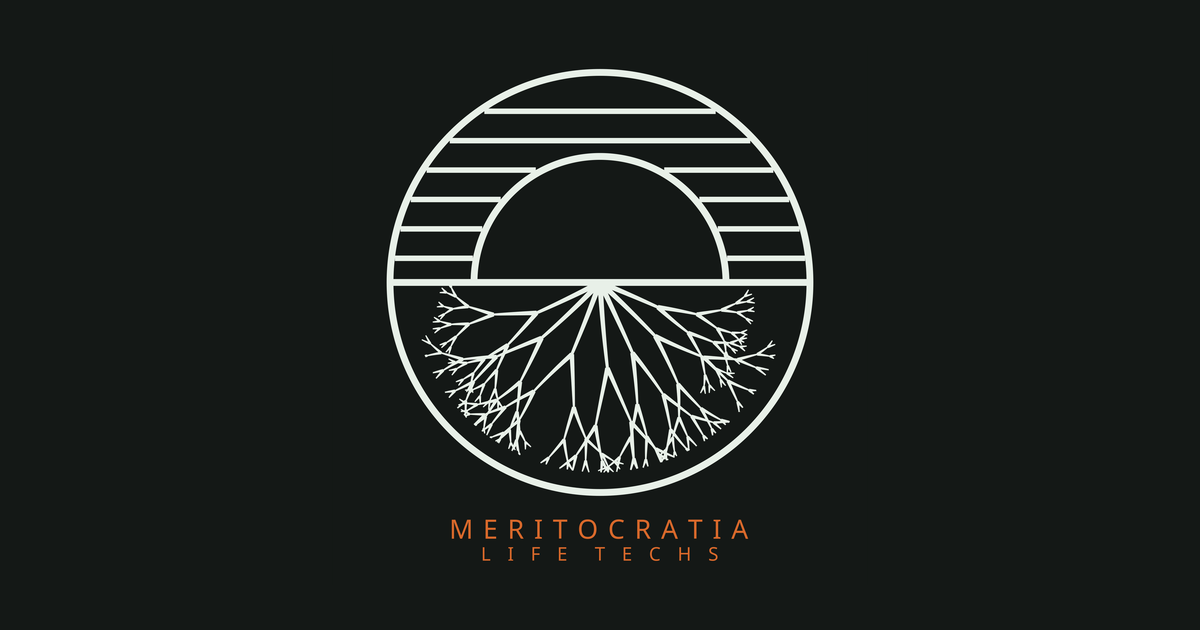
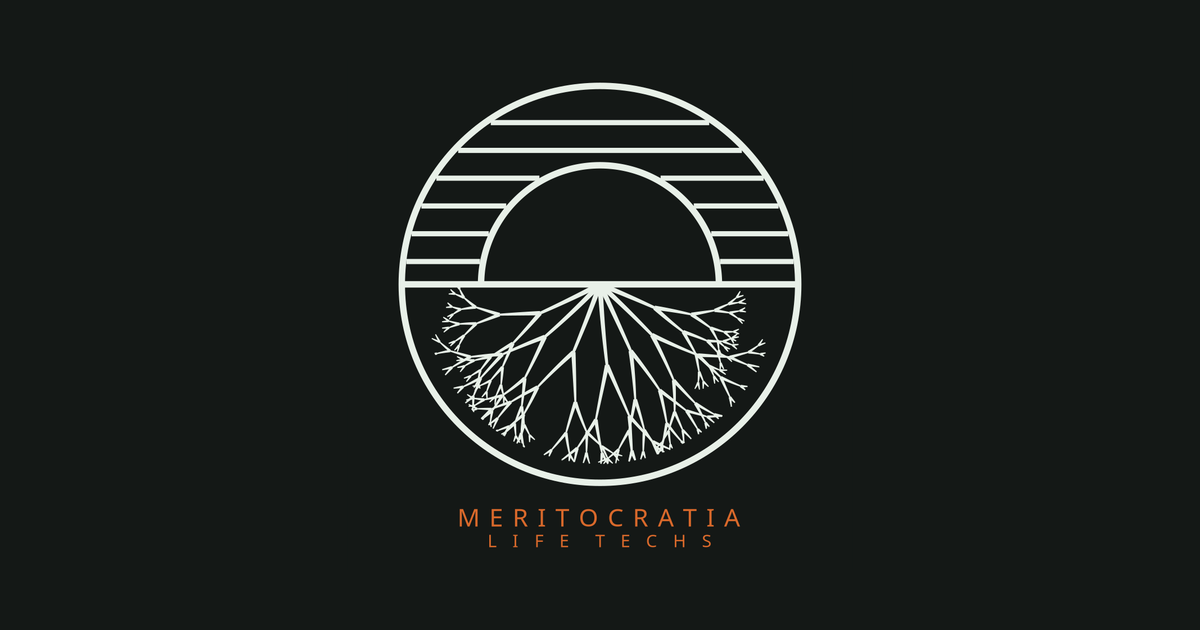
Add files via upload

Changed region(s): [[0.3083, 0.0905, 0.6783, 0.9048]]

diff --git a/index.html b/index.html
@@ -5,7 +5,10 @@
 <meta name="viewport" content="width=device-width, initial-scale=1">
 <title>Meritocratia Life Techs — controlled-environment cultivation and plant nutrition</title>
 <meta name="description" content="Meritocratia Life Techs develops controlled-environment cultivation systems and plant nutrition. Frederiksværk, Denmark. CVR 40618244.">
-<link rel="icon" href="favicon.svg">
+<link rel="icon" href="favicon.png">
+<link rel="preconnect" href="https://fonts.googleapis.com">
+<link rel="preconnect" href="https://fonts.gstatic.com" crossorigin>
+<link href="https://fonts.googleapis.com/css2?family=Inter:wght@400;500;600&display=swap" rel="stylesheet">
 <meta property="og:title" content="Meritocratia Life Techs">
 <meta property="og:description" content="Controlled-environment cultivation and plant nutrition. Frederiksværk, Denmark.">
 <meta property="og:image" content="og.png">
@@ -28,6 +31,8 @@
     color:var(--ink);
     font:400 17px/1.65 "Inter","Helvetica Neue",Helvetica,Arial,sans-serif;
     -webkit-font-smoothing:antialiased;
+    text-rendering:optimizeLegibility;
+    font-feature-settings:"kern" 1,"liga" 1;
   }
   a{color:inherit}
   .wrap{max-width:var(--max);margin:0 auto;padding:0 28px}
@@ -40,15 +45,17 @@
     border-bottom:1px solid var(--rule);
   }
   .bar{display:flex;align-items:center;justify-content:space-between;height:74px}
-  .mark{display:flex;align-items:center;gap:14px;text-decoration:none}
-  .mark img{width:40px;height:40px;display:block}
-  .mark .word{display:flex;flex-direction:column;gap:3px}
+  .mark{display:flex;align-items:center;gap:15px;text-decoration:none}
+  .mark img{width:46px;height:46px;display:block;flex:none}
+  .mark .word{display:flex;flex-direction:column;gap:5px}
   .mark .word b{
-    font-size:13px;letter-spacing:.30em;font-weight:600;
+    font-family:"Helvetica Neue",Helvetica,Arial,sans-serif;
+    font-size:15px;letter-spacing:.335em;font-weight:600;
     color:var(--orange);line-height:1;
   }
   .mark .word i{
-    font-style:normal;font-size:8.5px;letter-spacing:.55em;font-weight:600;
+    font-family:"Helvetica Neue",Helvetica,Arial,sans-serif;
+    font-style:normal;font-size:9px;letter-spacing:.70em;font-weight:600;
     color:var(--orange);line-height:1;
   }
   .mark span{
@@ -64,7 +71,7 @@
   @media(max-width:720px){nav{display:none}}
 
   /* ---------- hero ---------- */
-  .hero{padding:clamp(72px,11vw,132px) 0 clamp(56px,8vw,96px)}
+  .hero{padding:clamp(56px,8vw,92px) 0 clamp(44px,5.5vw,68px)}
   .eyebrow{
     display:flex;align-items:center;gap:12px;
     font-size:12px;letter-spacing:.2em;text-transform:uppercase;
@@ -74,10 +81,10 @@
   h1{
     font-size:clamp(36px,6.2vw,66px);
     line-height:1.06;letter-spacing:-.025em;
-    font-weight:500;margin:0 0 30px;max-width:19ch;color:var(--cream);
+    font-weight:500;margin:0 0 26px;max-width:19ch;color:var(--cream);
   }
   .lede{font-size:clamp(17px,2.1vw,21px);line-height:1.6;color:var(--muted);max-width:56ch;margin:0}
-  .lede strong{color:var(--cream);font-weight:500}
+  .lede strong{color:var(--cream);font-weight:600}
 
   /* ---------- sections ---------- */
   section{padding:clamp(52px,7vw,84px) 0;border-top:1px solid var(--rule)}
@@ -157,7 +164,7 @@
 <header>
   <div class="wrap bar">
     <a class="mark" href="#top">
-      <img src="mark.svg" alt="Meritocratia Life Techs">
+      <img src="mark.png" alt="Meritocratia Life Techs">
       <span class="word"><b>MERITOCRATIA</b><i>LIFE TECHS</i></span>
     </a>
     <nav>
